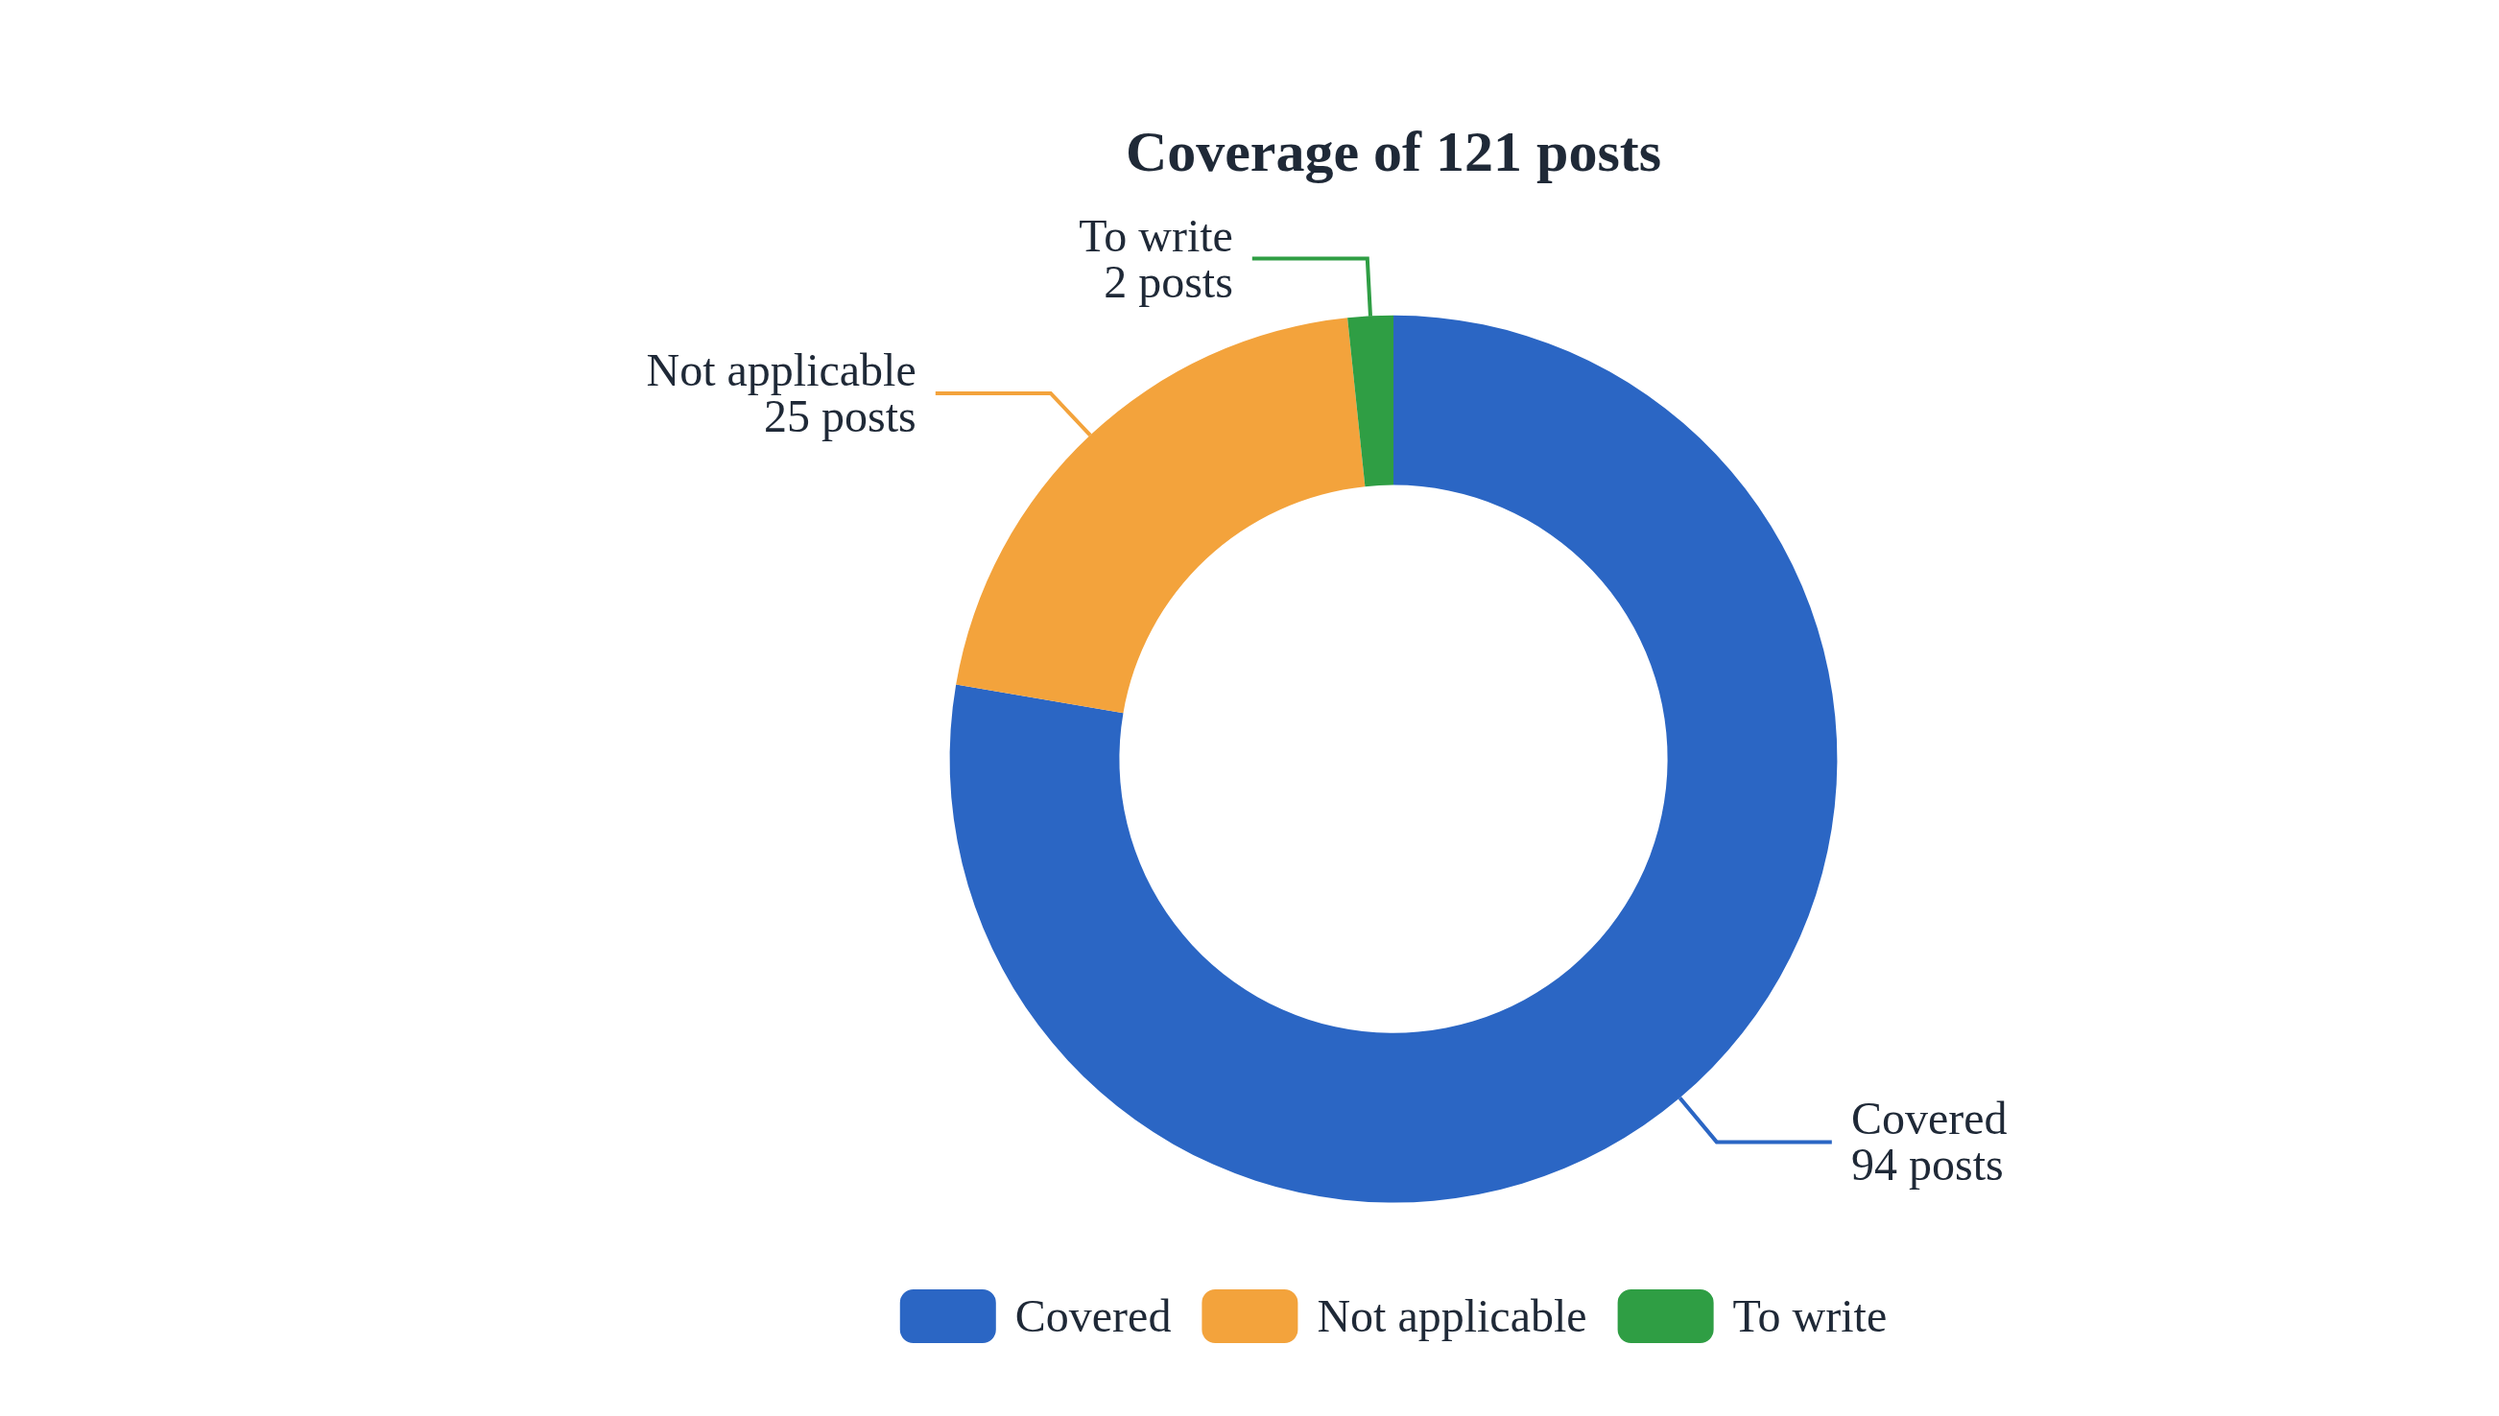
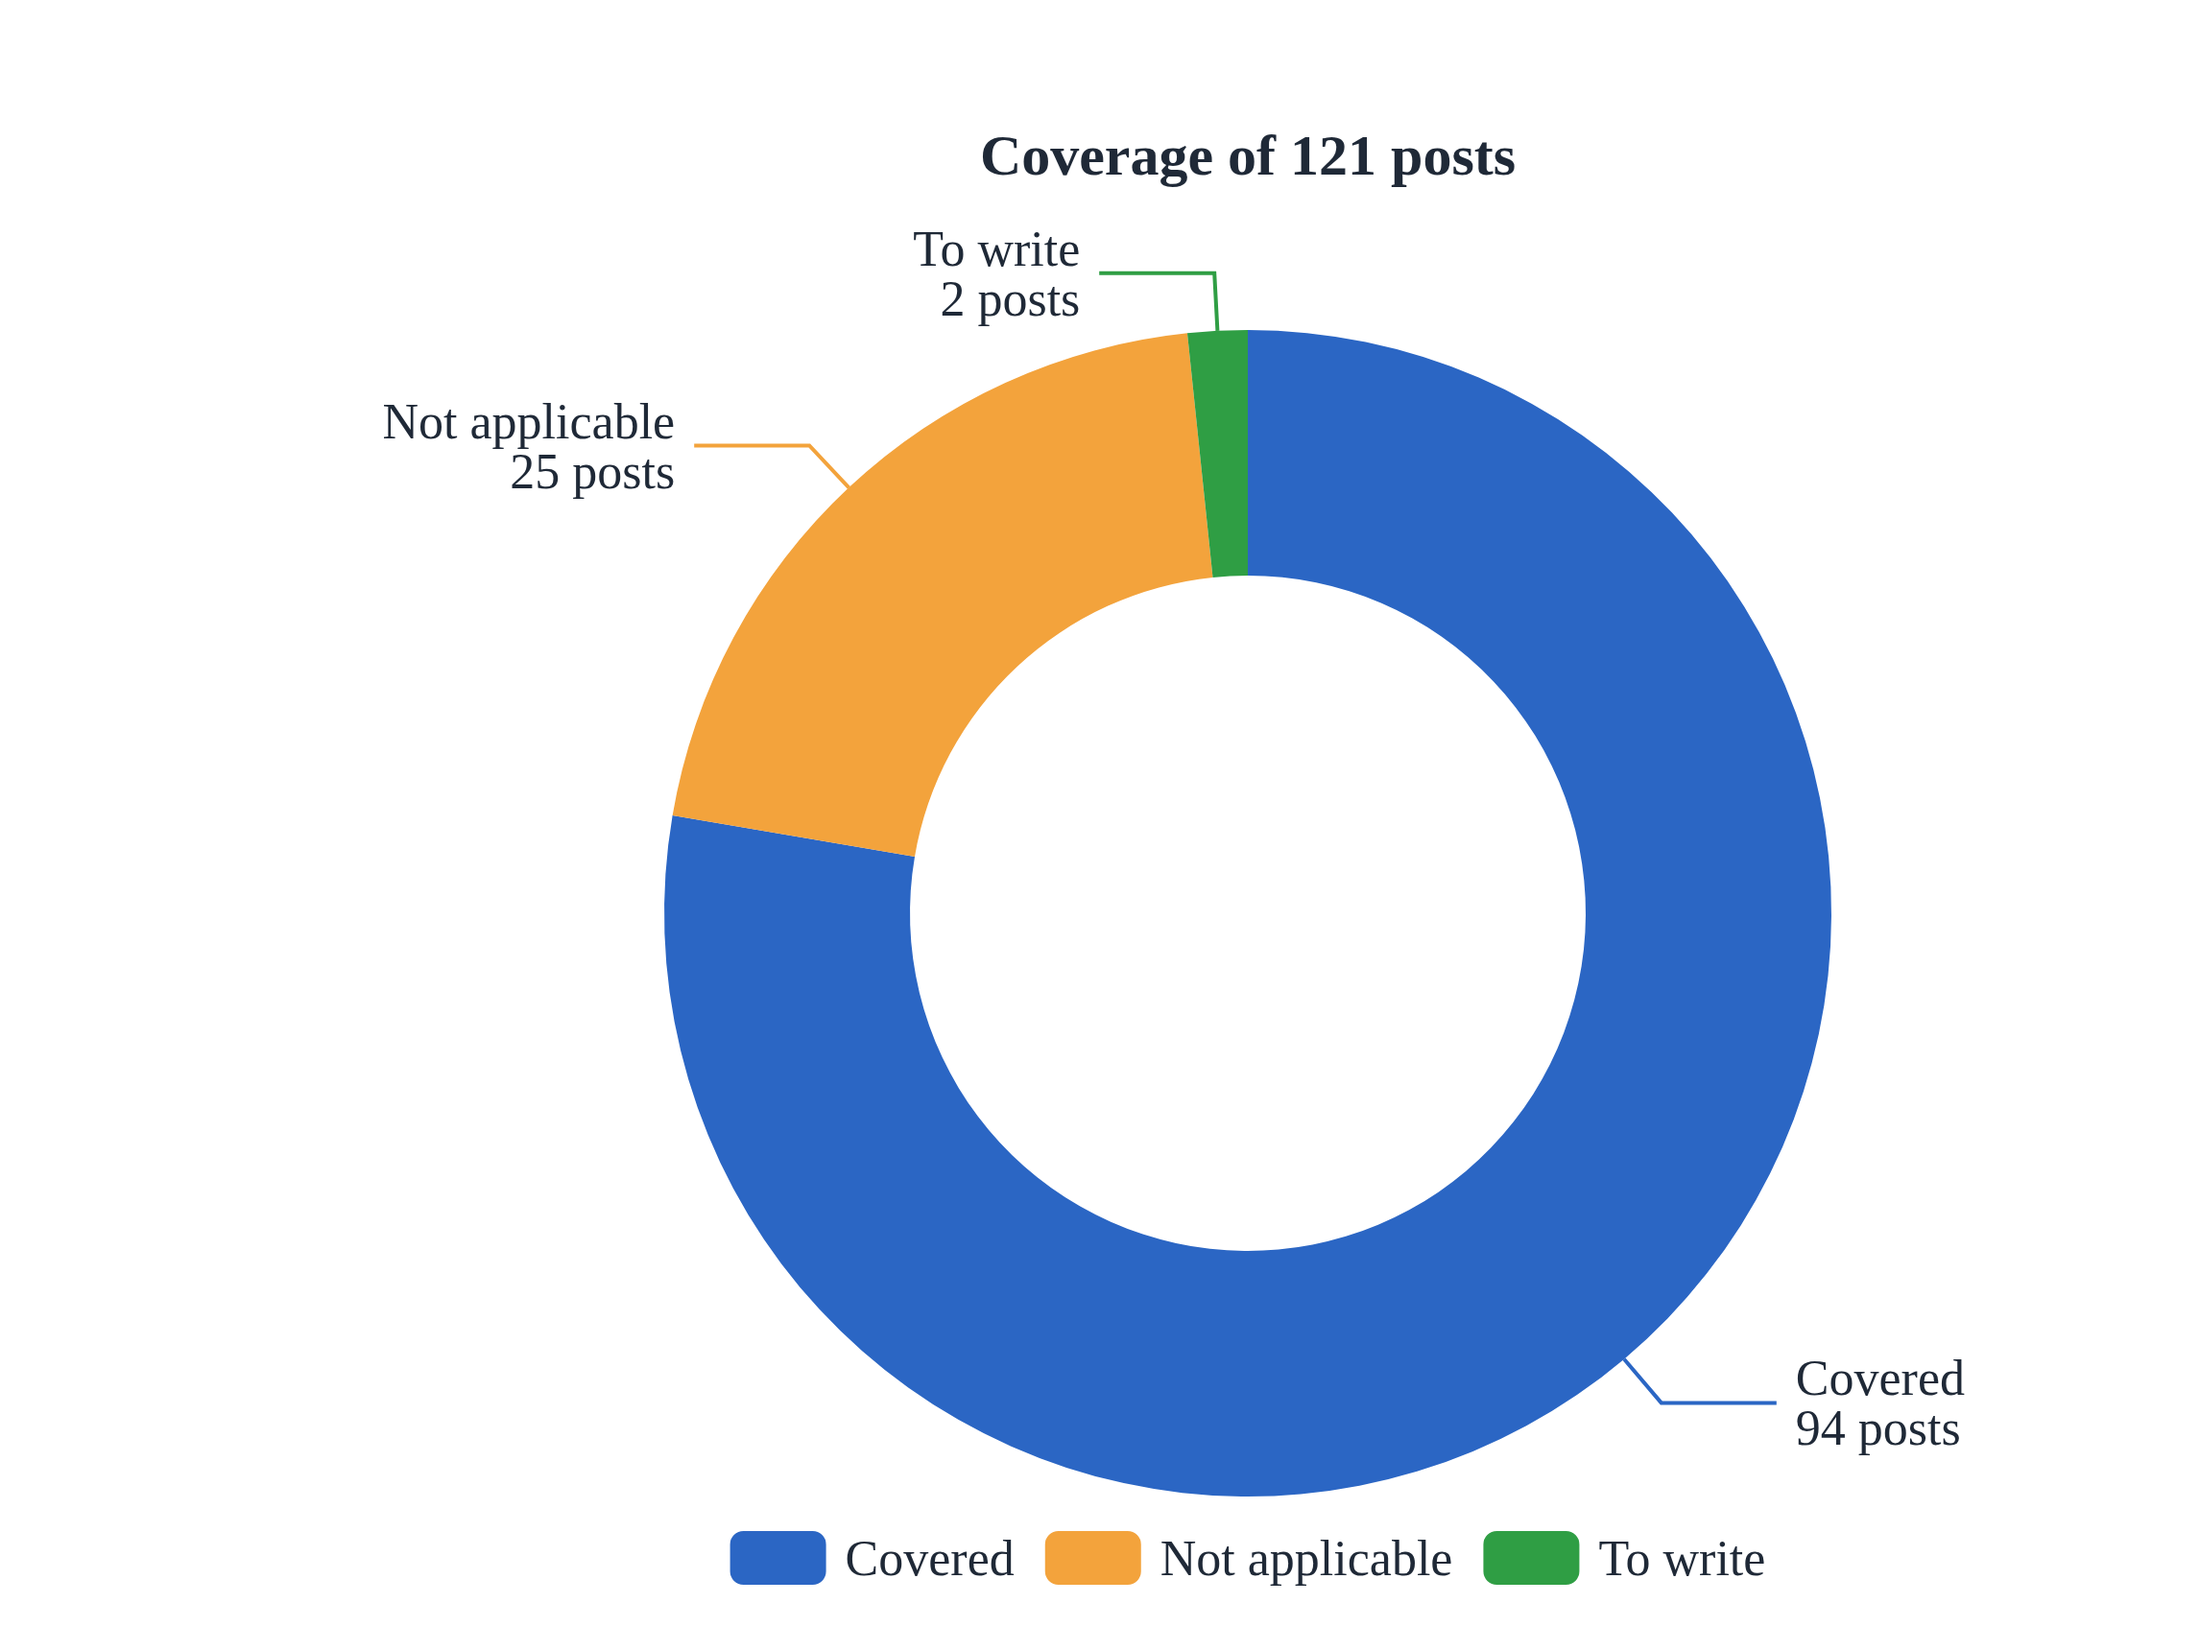
Enlarge coverage donut: square canvas and larger ring, display at 460px
The 560x340 layout gave the ring about 40% of the canvas width, so it
rendered small in the README. Re-export both figures from the source.

Changed region(s): [[0.1859, 0.0623, 0.8364, 0.9661], [0.8054, 0.8103, 0.8983, 0.8726]]

diff --git a/figures/figures.en.md b/figures/figures.en.md
@@ -2,15 +2,15 @@
 
 ```echarts
 {
-  "width": 560, "height": 340,
+  "width": 480, "height": 400,
   "title": {"text": "Coverage of 121 posts", "left": "center", "top": 6, "textStyle": {"color": "#1f2937", "fontSize": 15}},
   "color": ["#2b66c4", "#f3a33c", "#2f9e44"],
-  "legend": {"bottom": 6, "textStyle": {"color": "#1f2937", "fontSize": 12}},
+  "legend": {"bottom": 4, "textStyle": {"color": "#1f2937", "fontSize": 13}},
   "series": [{
     "type": "pie",
-    "radius": ["42%", "68%"],
-    "center": ["50%", "52%"],
-    "label": {"formatter": "{b}\n{c} posts", "color": "#1f2937", "fontSize": 12},
+    "radius": ["44%", "76%"],
+    "center": ["50%", "54%"],
+    "label": {"formatter": "{b}\n{c} posts", "color": "#1f2937", "fontSize": 13},
     "data": [
       {"name": "Covered", "value": 94},
       {"name": "Not applicable", "value": 25},

diff --git a/figures/figures.md b/figures/figures.md
@@ -2,15 +2,15 @@
 
 ```echarts
 {
-  "width": 560, "height": 340,
+  "width": 480, "height": 400,
   "title": {"text": "121 篇文章的覆盖情况", "left": "center", "top": 6, "textStyle": {"color": "#1f2937", "fontSize": 15}},
   "color": ["#2b66c4", "#f3a33c", "#2f9e44"],
-  "legend": {"bottom": 6, "textStyle": {"color": "#1f2937", "fontSize": 12}},
+  "legend": {"bottom": 4, "textStyle": {"color": "#1f2937", "fontSize": 13}},
   "series": [{
     "type": "pie",
-    "radius": ["42%", "68%"],
-    "center": ["50%", "52%"],
-    "label": {"formatter": "{b}\n{c} 篇", "color": "#1f2937", "fontSize": 12},
+    "radius": ["44%", "76%"],
+    "center": ["50%", "54%"],
+    "label": {"formatter": "{b}\n{c} 篇", "color": "#1f2937", "fontSize": 13},
     "data": [
       {"name": "已覆盖", "value": 94},
       {"name": "不适用", "value": 25},

diff --git a/README.en.md b/README.en.md
@@ -6,7 +6,7 @@ We went through the 121 posts on [blog.samaltman.com](https://blog.samaltman.com
 We picked 85 good quotes and made **204 small tasks**. Each task takes one minute or less.
 All 204 tasks together take 3.4 hours at most. That is task time only, not mastery.
 
-<p align="center"><img src="figures/coverage-donut-en.png" width="420" alt="Coverage of 121 posts: 94 covered, 25 not applicable, 2 to write"></p>
+<p align="center"><img src="figures/coverage-donut-en.png" width="460" alt="Coverage of 121 posts: 94 covered, 25 not applicable, 2 to write"></p>
 
 ## Good for short focus, including ADHD
 

diff --git a/README.md b/README.md
@@ -6,7 +6,7 @@
 从中挑出 85 条金句，拆成 **204 个一分钟以内能做完的小任务**。
 全部任务加起来不超过约 3.5 小时（只是任务时间，不代表掌握）。
 
-<p align="center"><img src="figures/coverage-donut.png" width="420" alt="121 篇文章的覆盖情况：已覆盖 94 篇，不适用 25 篇，待写 2 篇"></p>
+<p align="center"><img src="figures/coverage-donut.png" width="460" alt="121 篇文章的覆盖情况：已覆盖 94 篇，不适用 25 篇，待写 2 篇"></p>
 
 ## 适合注意力容易分散的人（包括 ADHD）
 
